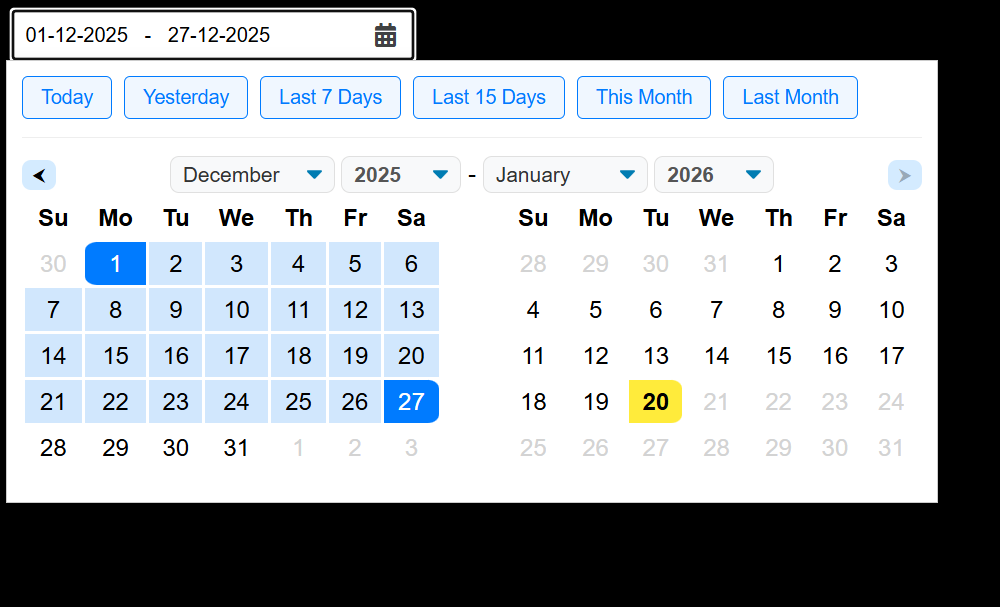
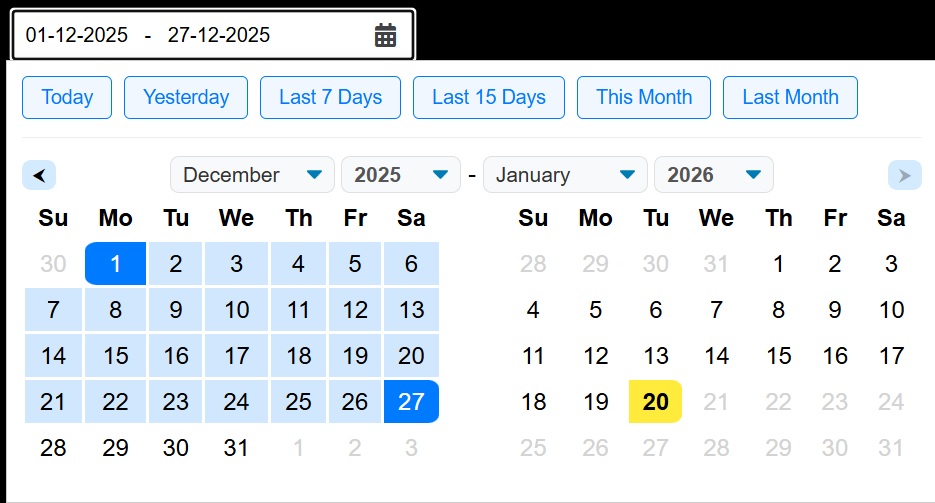
Added more projects

diff --git a/src/pages/Projects.jsx b/src/pages/Projects.jsx
@@ -10,6 +10,7 @@ import rjSoniPortfolioImage from '../assets/images/RjSoniPortfolioImage.png';
 import chatterAppImage from '../assets/images/chatterAppImage.png';
 import datePickerImage from '../assets/images/datePickerImage.png';
 import jaraJewellersImage from '../assets/images/jaraJewellersImage.png';
+import appointerHubImage from '../assets/images/appointerHubImage.png';
 
 export default function Projects() {
     useEffect(() => {
@@ -22,9 +23,9 @@ export default function Projects() {
             title: 'ChatterApp – Real-Time Collaboration Suite',
             description: 'Cross-platform real-time chat application with instant WebSockets, live typing indicators, online presence tracking, message read receipts, and client-side media compression.',
             image: chatterAppImage,
-            tags: ['React', 'Node.js', 'React Native', 'Expo', 'Appwrite', 'PWA'],
+            tags: ['React', 'Node.js', 'React Native', 'Expo', 'Appwrite', 'PWA', 'Mobile App'],
             demo: 'https://chatterapp-web.vercel.app/',
-            code: 'https://github.com/rjsoni107/ChatSync_Git_Project',
+            // code: 'https://github.com/rjsoni107/ChatSync_Git_Project',
             featured: true,
         },
         {
@@ -32,31 +33,41 @@ export default function Projects() {
             title: 'JaRa Jewellers – Luxury E-Commerce Web App',
             description: 'Luxury fine jewellery shopping portal featuring interactive product filtering, instant cart/wishlist state management, multi-step checkout, and silky-smooth micro-animations.',
             image: jaraJewellersImage,
-            tags: ['React.js', 'Vite', 'Tailwind CSS', 'Context API', 'PWA'],
+            tags: ['React.js', 'Vite', 'Tailwind CSS', 'Context API', 'PWA', 'Mobile View'],
             demo: 'https://jara-jewellers.vercel.app/',
-            code: 'https://github.com/rjsoni107/Jewellery_Shopping_Git_Project',
+            // code: 'https://github.com/rjsoni107/Jewellery_Shopping_Git_Project',
             featured: true,
         },
         {
             id: 3,
+            title: 'AppointerHub – Full-Stack Appointment Scheduling & CRM Platform',
+            description: 'AppointerHub is a full-stack, scalable CRM and appointment management platform designed to streamline client bookings, provider schedules, and lead pipelines. Built with React, Node.js, MongoDB, and Socket.io, it offers real-time notifications, interactive analytics, and multi-role access control.',
+            image: appointerHubImage,
+            tags: ['React.js', 'Redux Toolkit', 'Tailwind CSS', 'MongoDB', 'Node.js', 'Responsive UI'],
+            demo: 'https://appointerhub.vercel.app/',
+            // code: 'https://github.com/rjsoni107/Jewellery_Shopping_Git_Project',
+            featured: true,
+        },
+        {
+            id: 4,
             title: 'Rj Electronics – Modern Electronics Store',
             description: 'High-speed e-commerce frontend designed for gadget showcases. Built with dynamic product galleries, responsive cart flows, and GSAP smooth scroll animations.',
             image: rjElectronicsImage,
             tags: ['HTML5', 'CSS3', 'JavaScript', 'GSAP', 'Responsive UI'],
             demo: 'https://rj-electronics.vercel.app/',
-            code: 'https://github.com/rjsoni107/rj-electronics',
+            // code: 'https://github.com/rjsoni107/rj-electronics',
         },
         {
-            id: 4,
+            id: 5,
             title: 'Personal Portfolio Web Experience',
             description: 'Modern developer portfolio showcasing interactive UI engineering, clean architecture, responsive components, and fluid animations.',
             image: rjSoniPortfolioImage,
             tags: ['React', 'Tailwind CSS', 'Framer Motion', 'Vite'],
             demo: 'https://rjsoni.vercel.app/',
-            code: 'https://github.com/rjsoni107/rjsoni',
+            // code: 'https://github.com/rjsoni107/rjsoni',
         },
         {
-            id: 5,
+            id: 6,
             title: "Date Range Picker Library",
             description: "Customizable zero-dependency date range picker built in vanilla JavaScript. Supports custom date formats, predefined presets, and easy plug-and-play integration.",
             image: datePickerImage,
@@ -65,7 +76,7 @@ export default function Projects() {
             code: "https://github.com/rjsoni107/DateRangePicker"
         },
         {
-            id: 6,
+            id: 7,
             title: 'Dynamic Popup & Modal Handler',
             description: 'Lightweight animated notification and modal management library for web applications with customizable status themes, alerts, and smooth CSS transitions.',
             image: popupImage,
@@ -74,7 +85,7 @@ export default function Projects() {
             code: 'https://github.com/rjsoni107/popup-handler',
         },
         {
-            id: 7,
+            id: 8,
             title: 'Real-Time Analog & Digital Clock Engine',
             description: 'Interactive real-time clock application with smooth SVG sweep second hands, time zone detection, and responsive dark glass aesthetic.',
             image: clockImage,

diff --git a/vite.config.js b/vite.config.js
@@ -8,7 +8,11 @@ export default defineConfig({
   build: {
     host: '0.0.0.0',
     outDir: "dist",
-    port: 5173,
+    port: 5175,
     open: true
   },
+  server: {
+    host: true,
+    port: 5175,
+  }
 })
